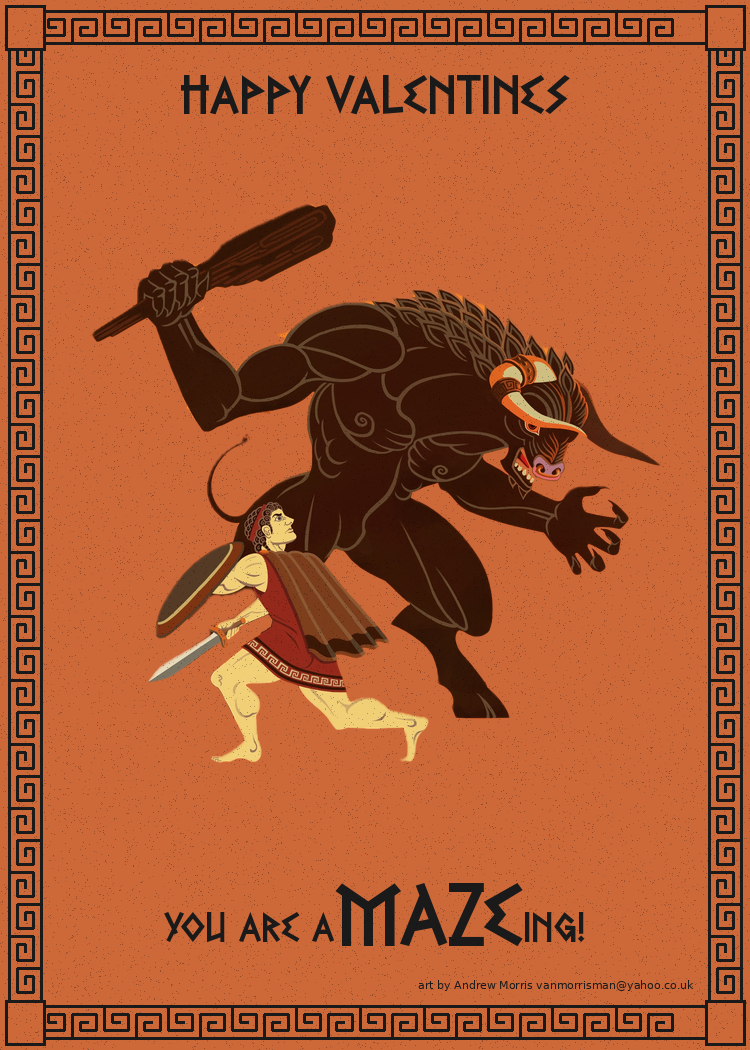
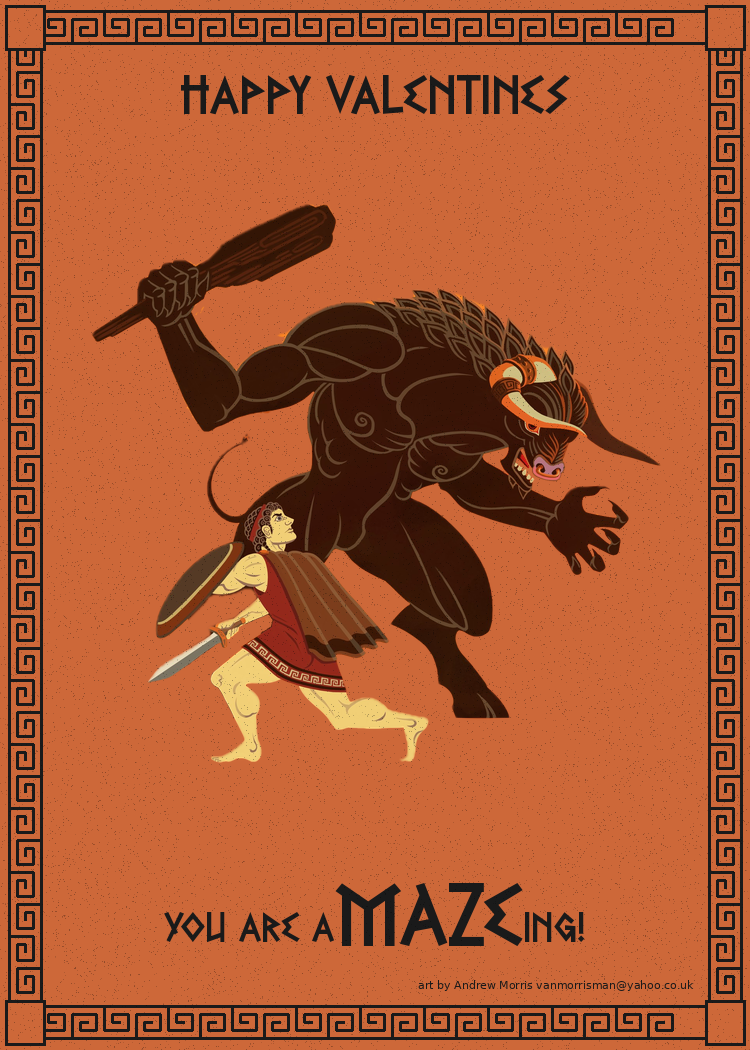
Test dramatic change: 80pt at y=120

diff --git a/src/greek_design_system.py b/src/greek_design_system.py
@@ -403,7 +403,7 @@ def generate_greek_card_front(
     greek_font_path = os.path.join(base_dir, "..", "assets", "fonts", "Greek-Freak.ttf")
 
     try:
-        top_font = ImageFont.truetype(greek_font_path, 55)  # 15% bigger than 48
+        top_font = ImageFont.truetype(greek_font_path, 80)  # MUCH bigger for testing
     except:
         top_font = ImageFont.load_default()
 
@@ -411,7 +411,7 @@ def generate_greek_card_front(
     top_bbox = draw.textbbox((0, 0), top_text, font=top_font)
     top_text_width = top_bbox[2] - top_bbox[0]
     top_x = (width - top_text_width) // 2
-    top_y = 72  # Lowered from 56
+    top_y = 120  # MUCH lower for testing
     draw.text((top_x, top_y), top_text, fill=PALETTE.black, font=top_font)
 
     # Add minotaur artwork if provided
